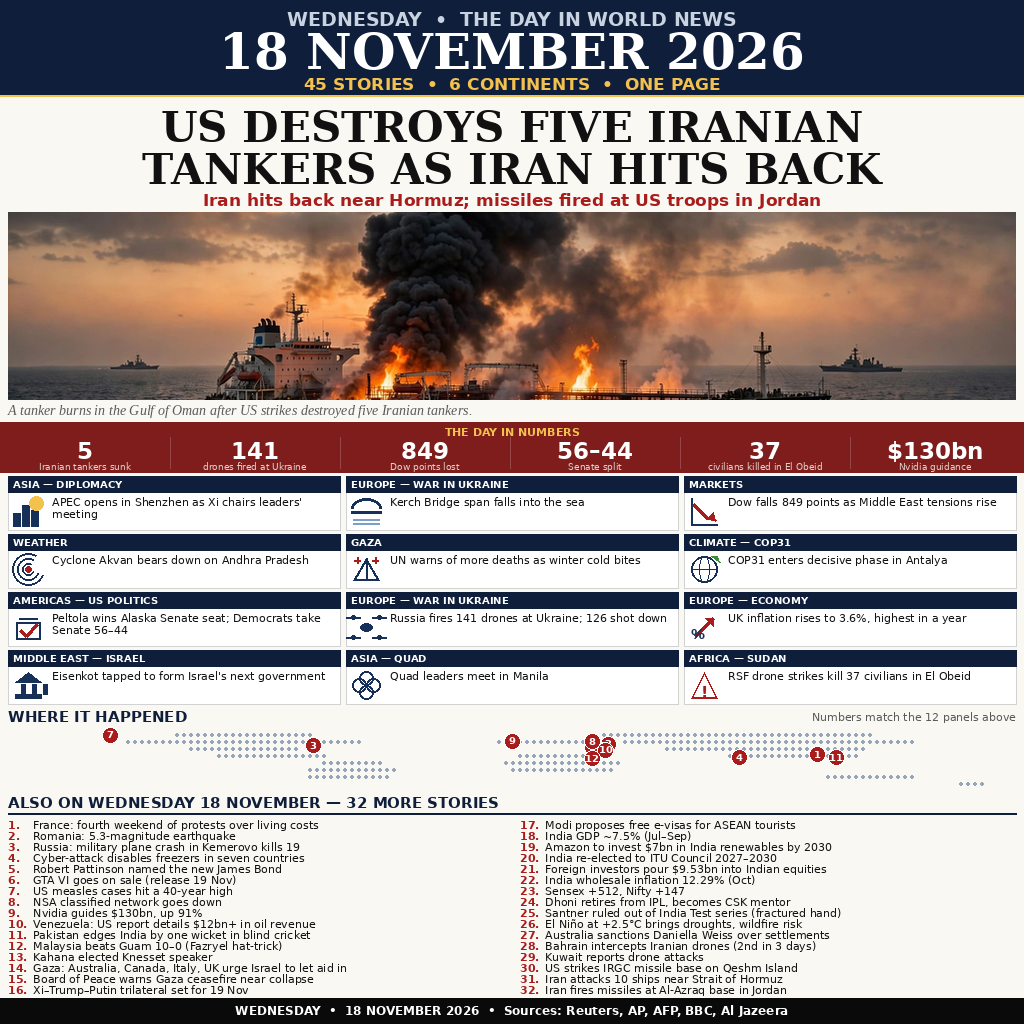
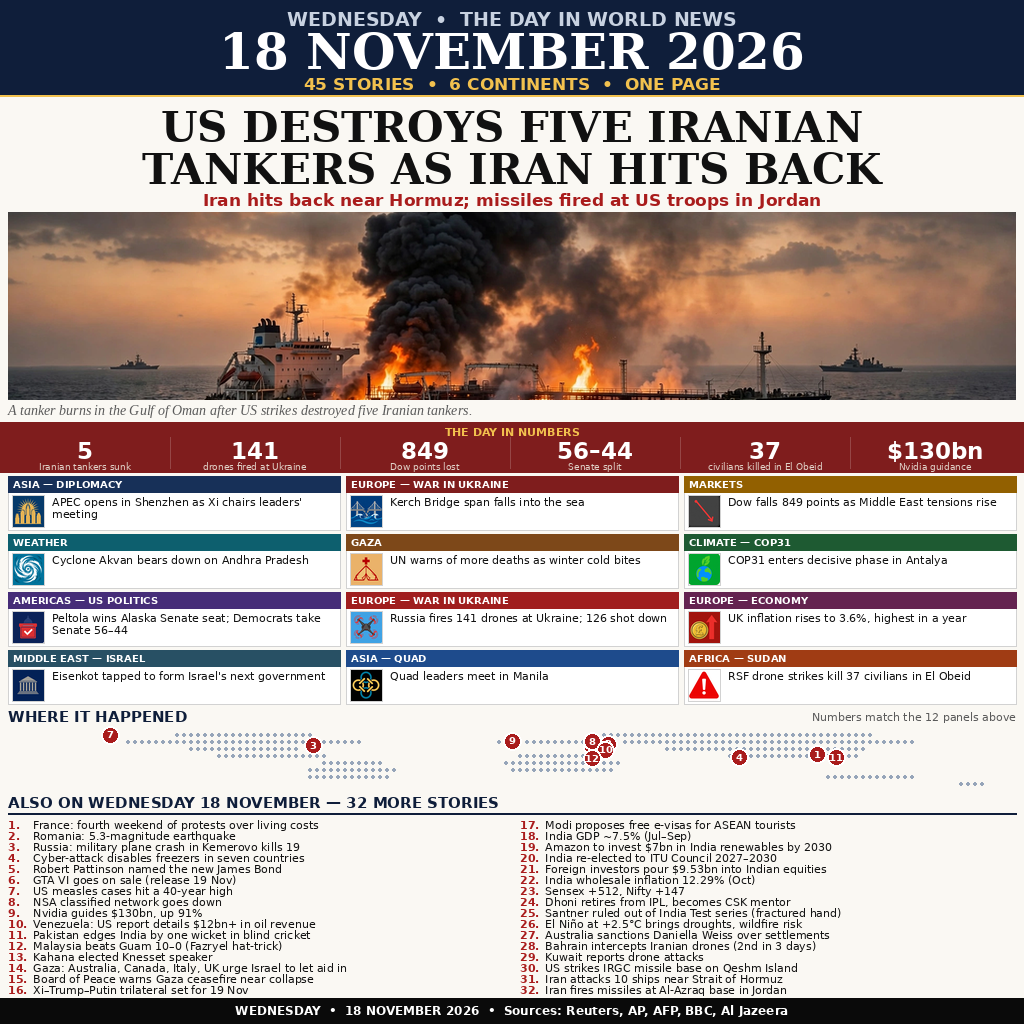
Redesign v5: varied panel illustrations + regional accent bars

Changed region(s): [[0.0, 0.4375, 1.0, 0.6875]]

diff --git a/main.ts b/main.ts
@@ -1,6 +1,6 @@
 // News-image entry: a front-page poster summing up 18 November 2026.
 //
-// The image lives in this repository as entry.png (a 1024x1024 PNG, 387,958
+// The image lives in this repository as entry.png (a 1024x1024 PNG, 410,684
 // bytes). This program does nothing but place that file where the grader
 // expects it: /output/entry.png, or MAKEFUN_OUTPUT_DIR when the harness
 // sets one (the usual stand-in outside the grading container).
@@ -8,11 +8,12 @@
 // The poster itself was composed for this entry: a burning oil tanker in
 // the Strait of Hormuz at dusk, under the masthead "18 NOVEMBER 2026" and
 // the headline "US DESTROYS FIVE IRANIAN TANKERS AS IRAN HITS BACK", with
-// a "THE DAY IN NUMBERS" strip (5 tankers, 141 drones, 848 Dow points,
+// a "THE DAY IN NUMBERS" strip (5 tankers, 141 drones, 849 Dow points,
 // 56-44 Senate, 37 civilians, $130bn Nvidia), a twelve-panel grid for the
 // day's other big stories (APEC, Kerch Bridge, markets, cyclone, Gaza,
-// COP31, Peltola, Russia drones, UK inflation, Eisenkot, Quad, Sudan), a
-// dotted world map "WHERE IT HAPPENED", and a numbered list of 32 more
+// COP31, Peltola, Russia drones, UK inflation, Eisenkot, Quad, Sudan) —
+// each panel carries its own small illustration and its own accent colour,
+// a dotted world map "WHERE IT HAPPENED", and a numbered list of 32 more
 // stories, 45 stories across 6 continents on one page. The text was laid
 // out with a font renderer so it stays sharp; nothing is fetched at run
 // time, so two runs always write the same bytes.
